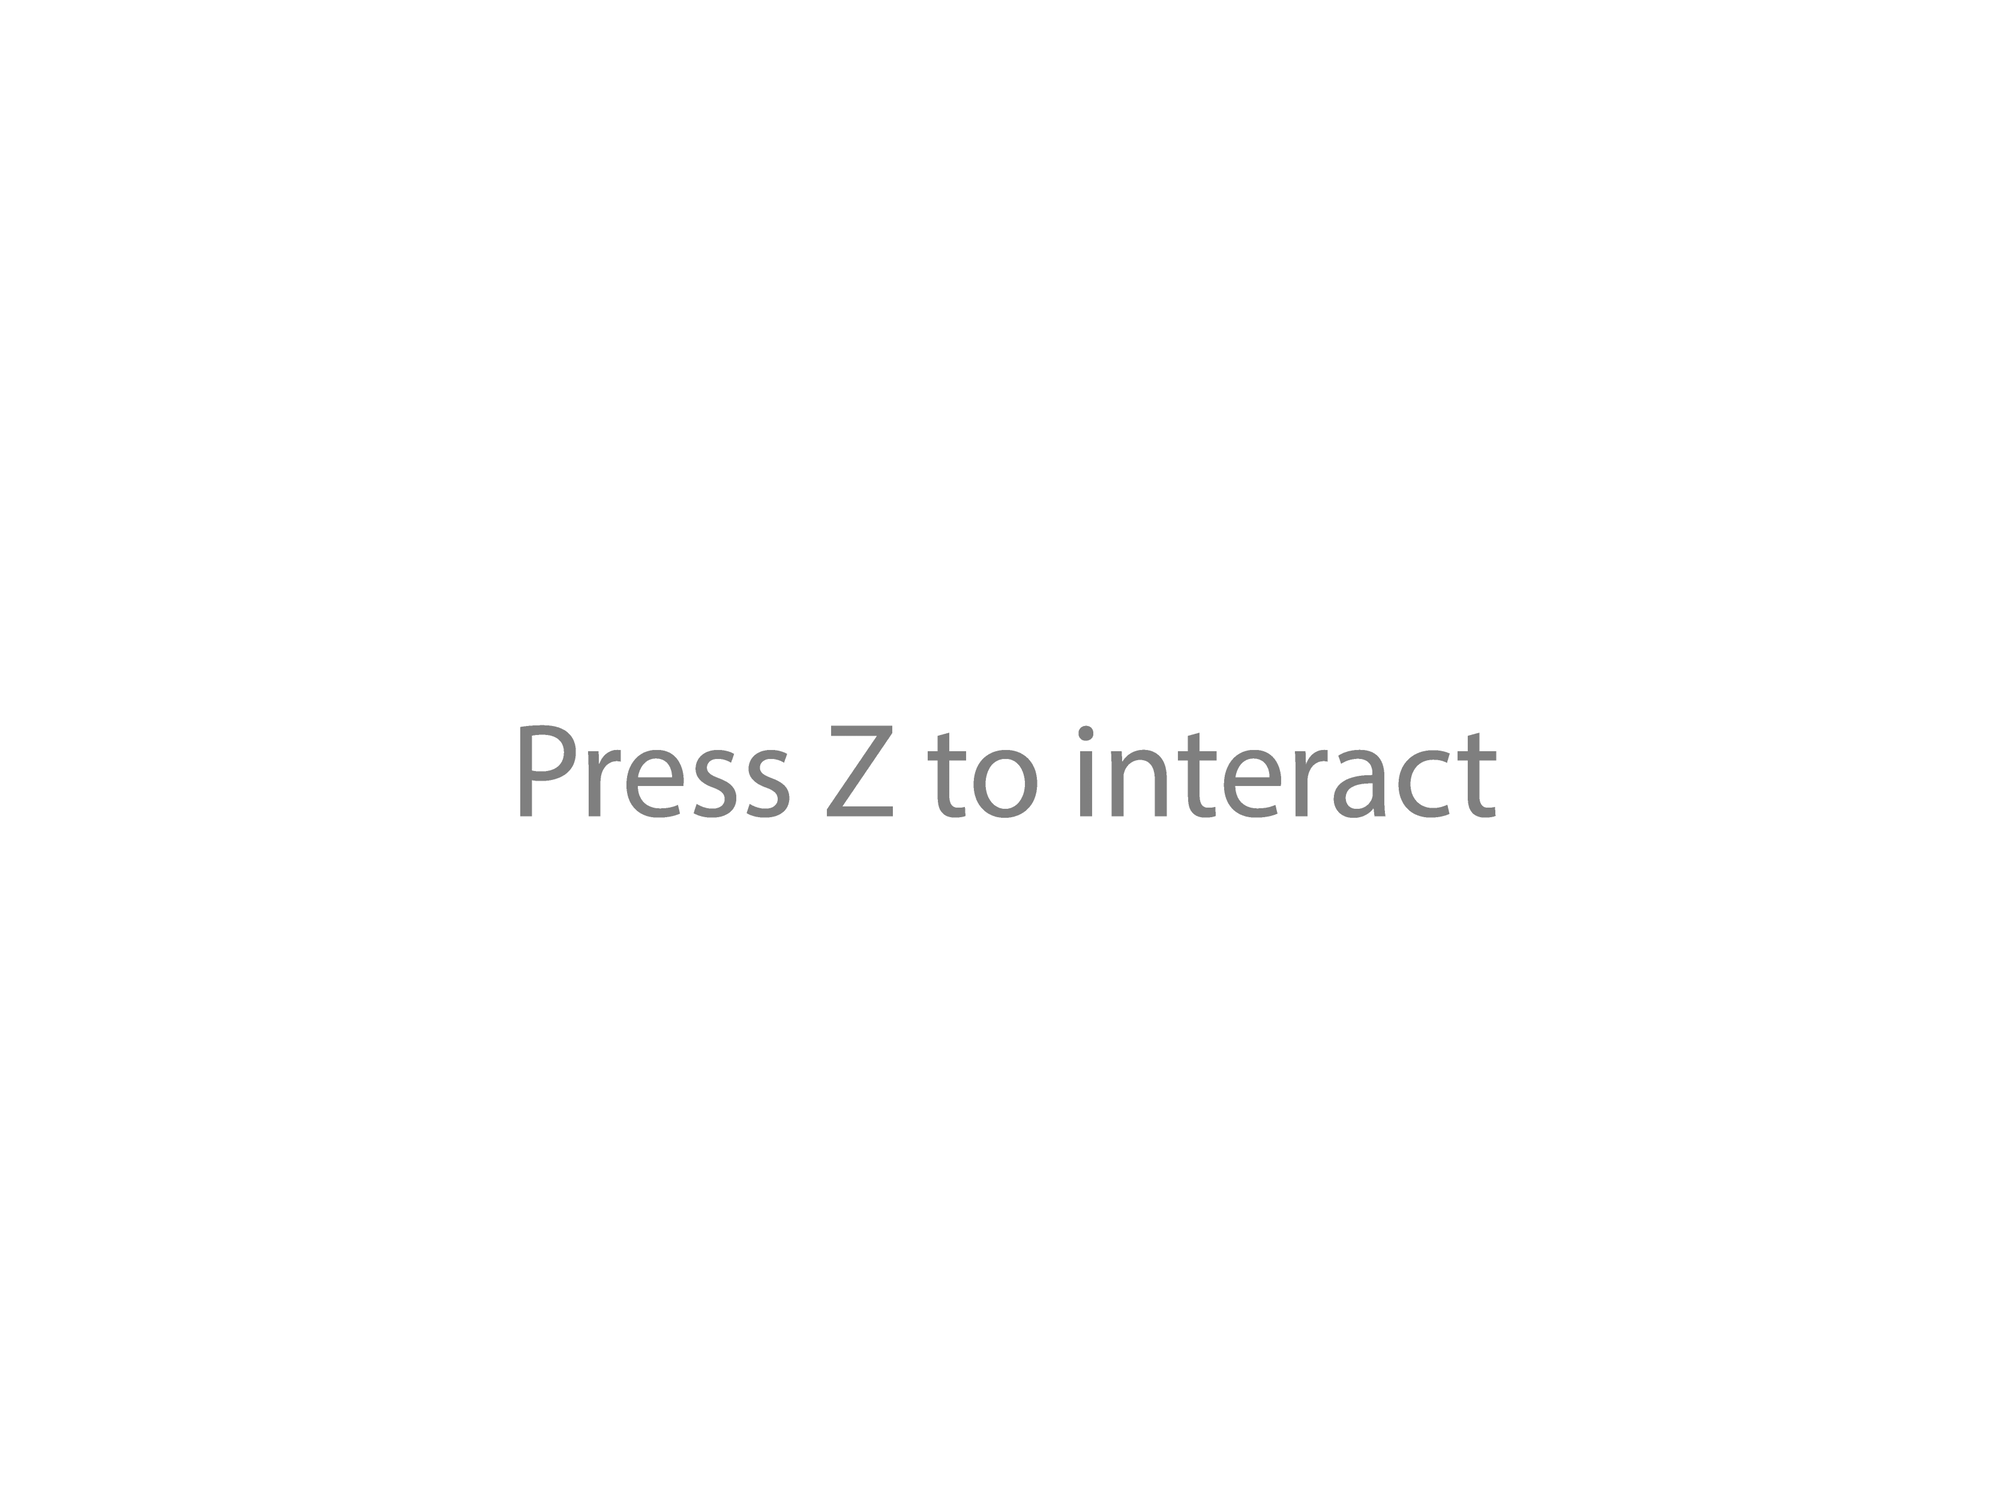
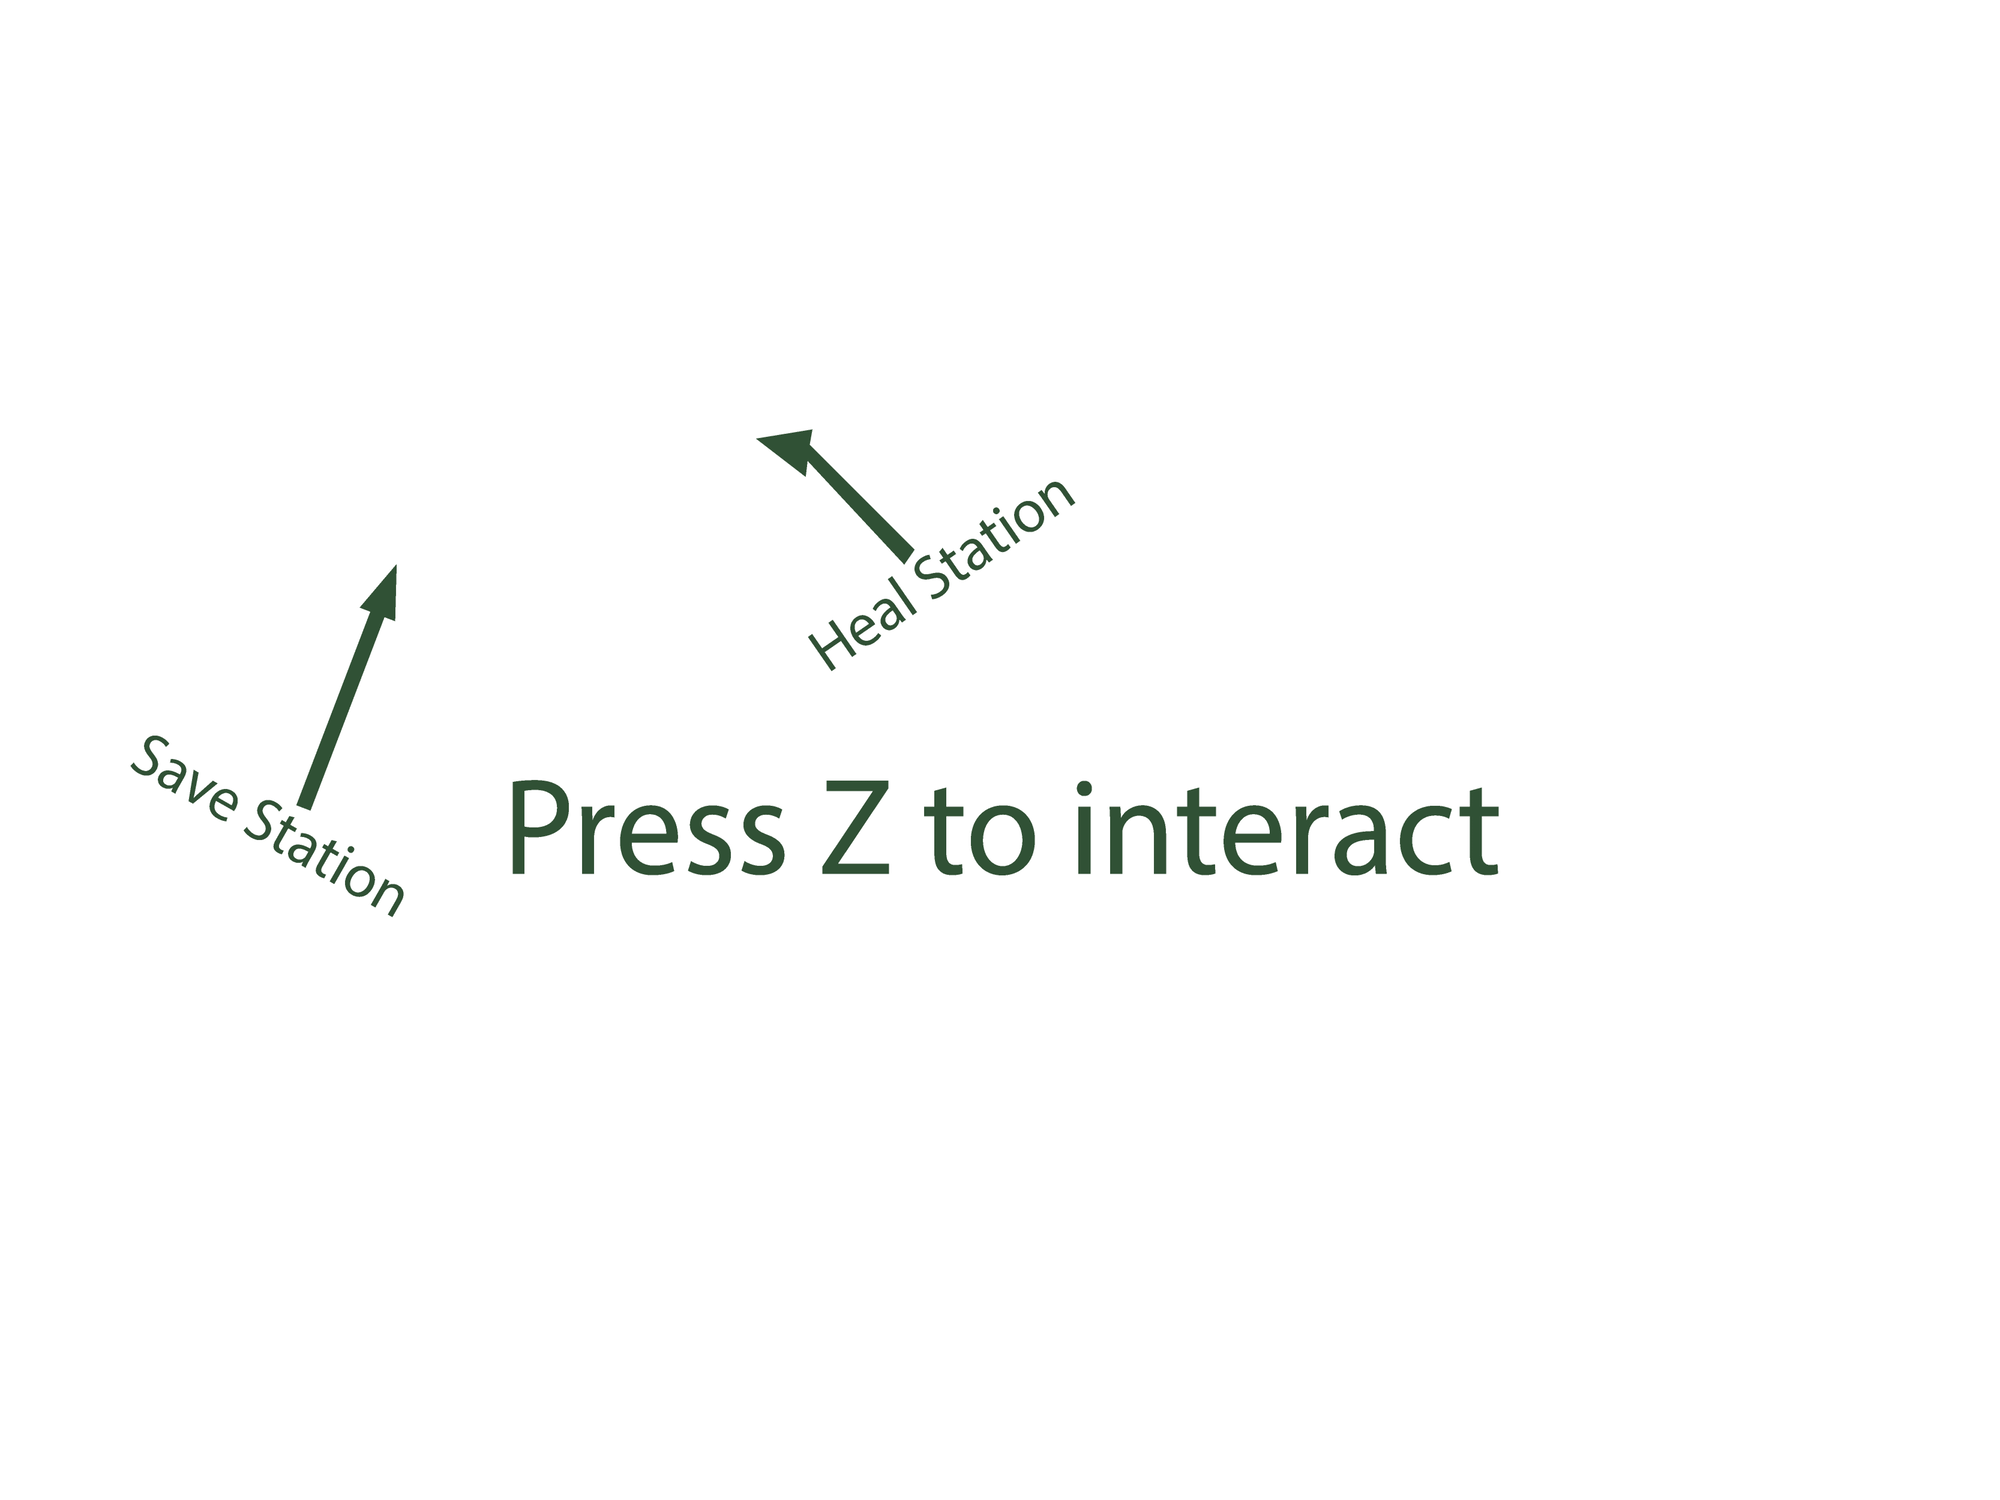
Ease of use update

diff --git a/src/filereading/Game.java b/src/filereading/Game.java
@@ -190,7 +190,7 @@ public class Game extends JComponent implements KeyListener {
 			boolean successful = dir.mkdir();
 			PrintWriter writer;
 			writer = new PrintWriter("saves/player.txt");
-			writer.println("luke");
+			writer.println("fred");
 			writer.println(20);
 			writer.println(3);
 			writer.println(7);
@@ -364,7 +364,7 @@ public class Game extends JComponent implements KeyListener {
 							g.setFont(new Font("MyriadPro", Font.PLAIN, 21));
 							g.setColor(Color.white);
 							g.drawString("A new attack is available, choose which attack you want to", 50, 250);
-							g.drawString("replace or press shift to exit", 50, 271);
+							g.drawString("replace with space or press z to exit", 50, 271);
 							g.drawString(theplayer.attacks.get(theplayer.currentattack).name, 300, 300);
 							g.drawString("Attack type: " + theplayer.attacks.get(theplayer.currentattack).element, 300,
 									321);
@@ -1032,6 +1032,7 @@ public class Game extends JComponent implements KeyListener {
 			tppads.add(new Teleportpad(TPPAD_LEFT, 3));
 
 			stations.add(new Interactstation(100, 100, "Save"));
+			stations.add(new Interactstation(200, 100, "Heal"));
 		}
 		if (currentroom == 1) {
 			// rocklist.add(new Rockenemy(300, 200));
